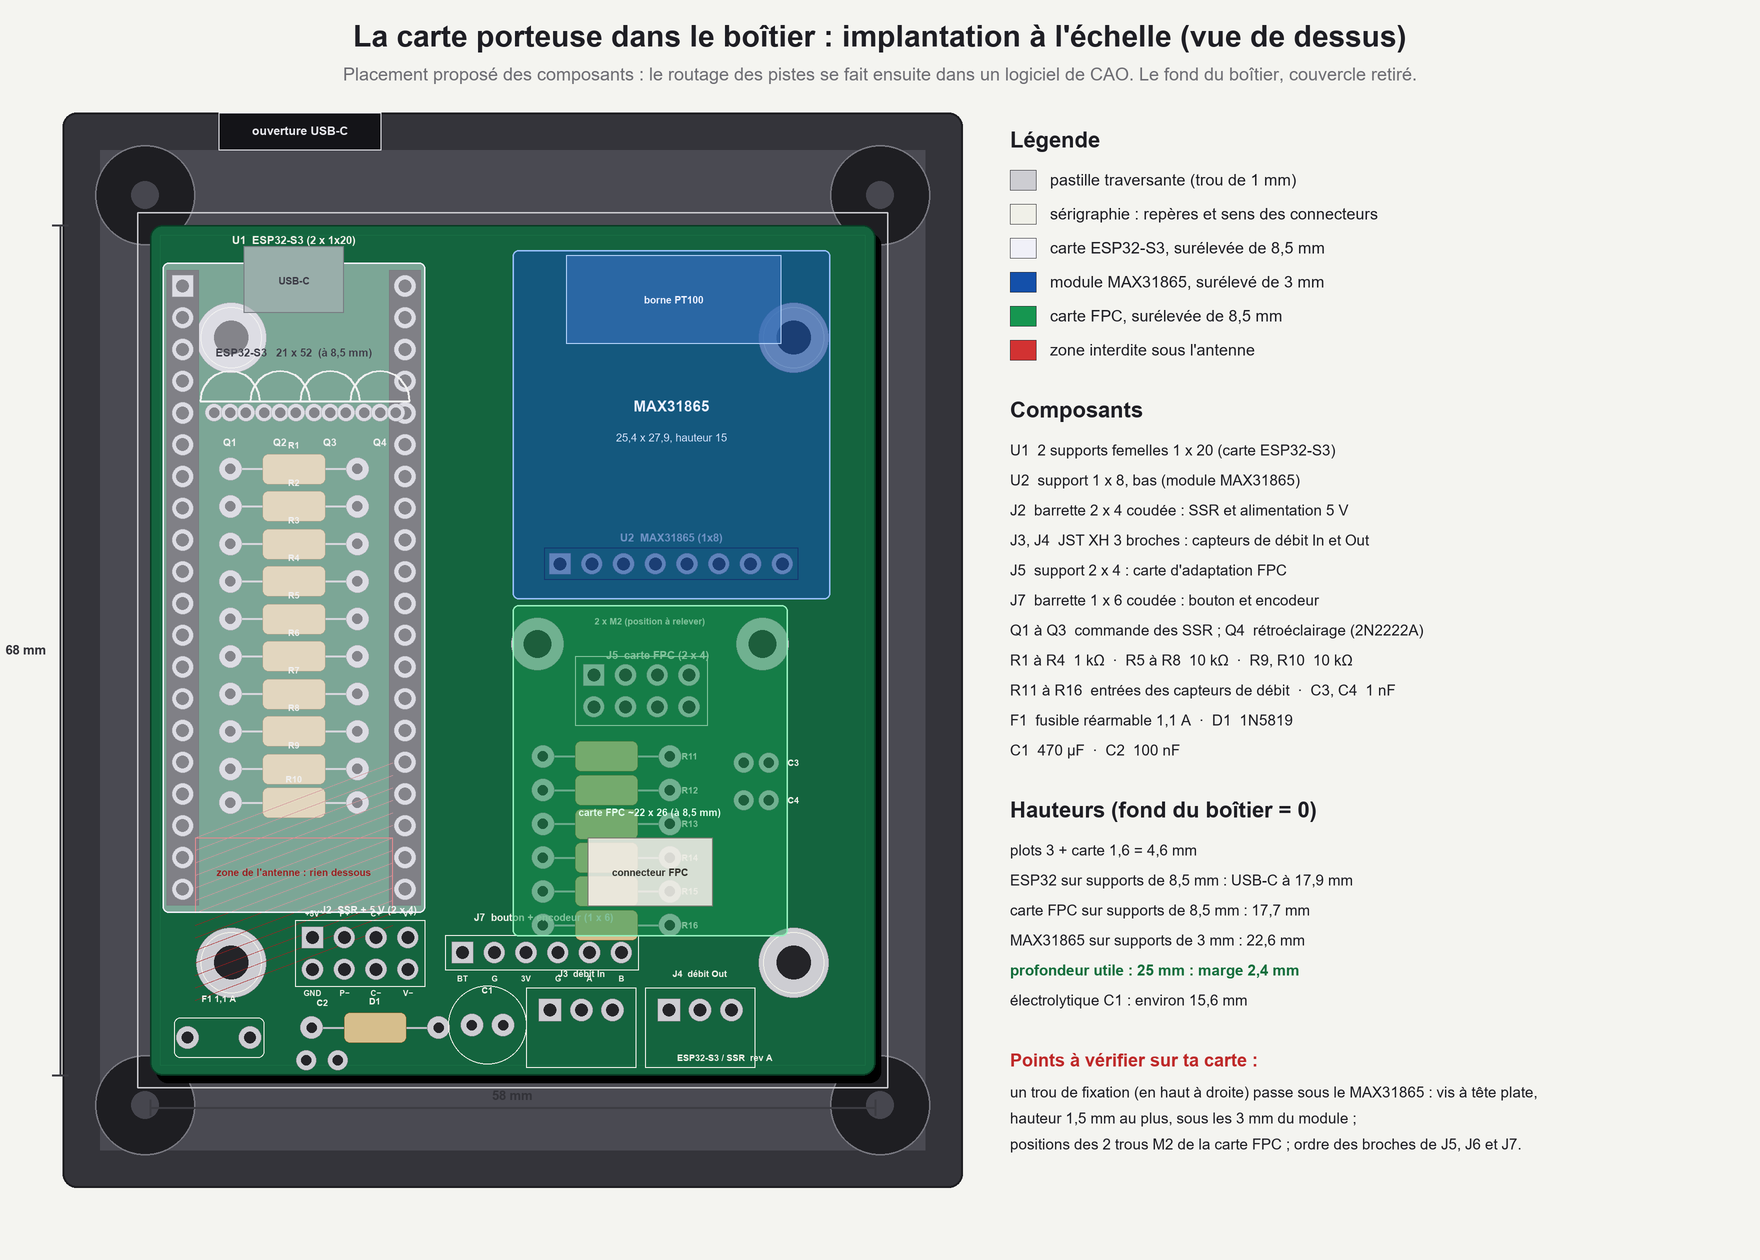
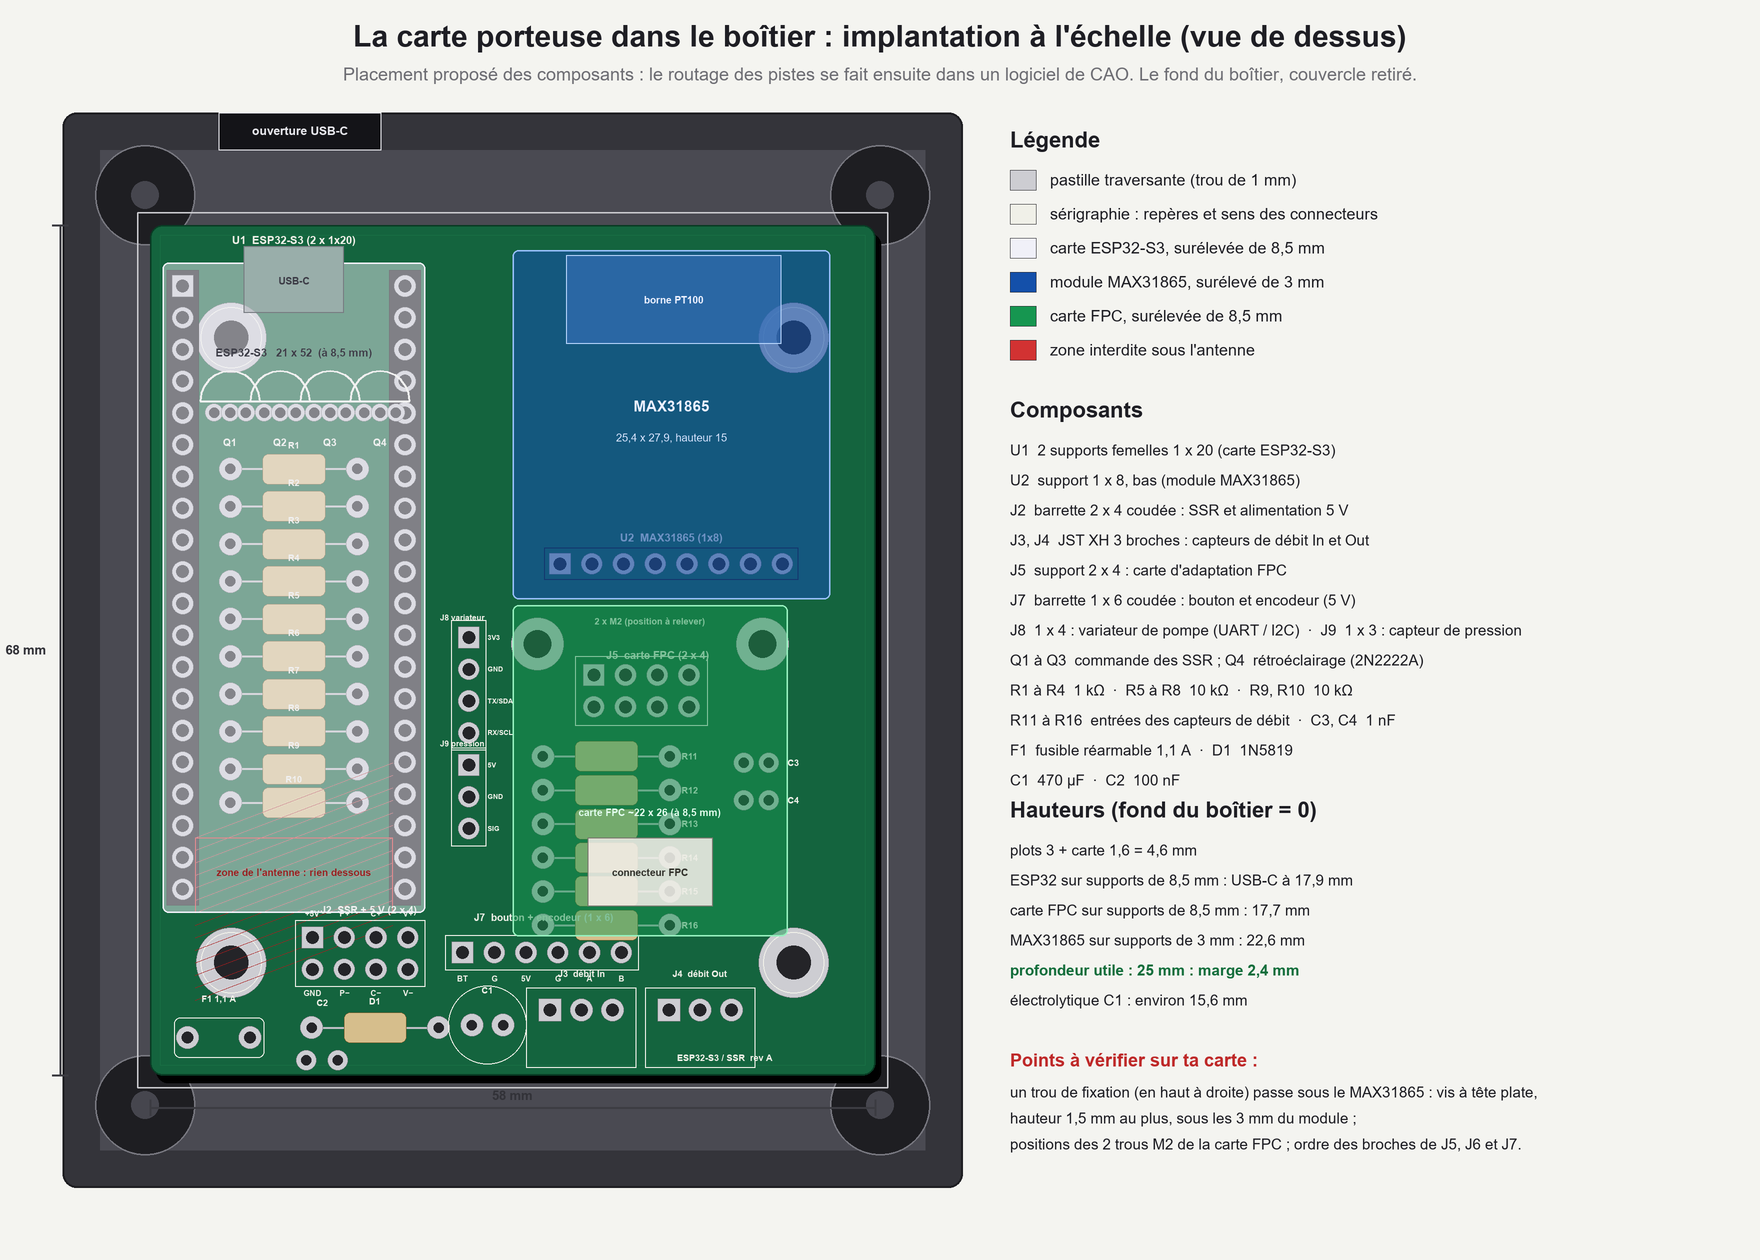
Ajout J8 (variateur de pompe UART/I2C) et J9 (capteur de pression), encodeur en 5 V

Changed region(s): [[0.5625, 0.4952, 0.8438, 0.619], [0.25, 0.4952, 0.2812, 0.681]]

diff --git a/tools/carrier_plan.py b/tools/carrier_plan.py
@@ -162,8 +162,19 @@ for i in range(6):
     tpad(25.0 + i * 2.54, 58.2, square=(i == 0), ring=1.7, drill=1.0)
 rect(d, X(25.0) - 1.4 * K, Y(58.2) - 1.4 * K, X(25.0 + 5 * 2.54) + 1.4 * K, Y(58.2) + 1.4 * K, outline=SILK + (255,), width=2)
 silk(31.5, 55.4, "J7  bouton + encodeur (1 x 6)", 10)
-for i, lab in enumerate(["BT", "G", "3V", "G", "A", "B"]):
+for i, lab in enumerate(["BT", "G", "5V", "G", "A", "B"]):
     text(d, X(25.0 + i * 2.54), Y(58.2) + 2.1 * K, lab, 8, SILK, True)
+# J8: 1 x 4 vertical header, dimmer (UART / I2C) in the corridor between ESP32 and FPC board; J9: 1 x 3, pressure sensor
+for i, lab in enumerate(["3V3", "GND", "TX/SDA", "RX/SCL"]):
+    tpad(25.5, 33.0 + i * 2.54, square=(i == 0), ring=1.7, drill=1.0)
+    text(d, X(27.0), Y(33.0 + i * 2.54), lab, 7, SILK, True, 'lm')
+rect(d, X(25.5) - 1.4 * K, Y(33.0) - 1.4 * K, X(25.5) + 1.4 * K, Y(33.0 + 3 * 2.54) + 1.4 * K, outline=SILK + (255,), width=2)
+silk(25.0, 31.4, "J8 variateur", 8)
+for i, lab in enumerate(["5V", "GND", "SIG"]):
+    tpad(25.5, 43.2 + i * 2.54, square=(i == 0), ring=1.7, drill=1.0)
+    text(d, X(27.0), Y(43.2 + i * 2.54), lab, 7, SILK, True, 'lm')
+rect(d, X(25.5) - 1.4 * K, Y(43.2) - 1.4 * K, X(25.5) + 1.4 * K, Y(43.2 + 2 * 2.54) + 1.4 * K, outline=SILK + (255,), width=2)
+silk(25.0, 41.5, "J9 pression", 8)
 # F1 polyfuse (radial, pitch 5), D1 1N5819 (axial 10.16), C1 470 uF (radial 5 mm dia, pitch 2.5), C2 100 nF
 tpad(3.0, 65.0, ring=1.8, drill=0.9); tpad(8.0, 65.0, ring=1.8, drill=0.9)
 rrect(d, X(1.9), Y(63.4), X(9.1), Y(66.6), 6, outline=SILK + (255,), width=2); silk(5.5, 61.9, "F1 1,1 A", 9)
@@ -239,7 +250,8 @@ comp = [
     "J2  barrette 2 x 4 coudée : SSR et alimentation 5 V",
     "J3, J4  JST XH 3 broches : capteurs de débit In et Out",
     "J5  support 2 x 4 : carte d'adaptation FPC",
-    "J7  barrette 1 x 6 coudée : bouton et encodeur",
+    "J7  barrette 1 x 6 coudée : bouton et encodeur (5 V)",
+    "J8  1 x 4 : variateur de pompe (UART / I2C)  ·  J9  1 x 3 : capteur de pression",
     "Q1 à Q3  commande des SSR ; Q4  rétroéclairage (2N2222A)",
     "R1 à R4  1 kΩ  ·  R5 à R8  10 kΩ  ·  R9, R10  10 kΩ",
     "R11 à R16  entrées des capteurs de débit  ·  C3, C4  1 nF",

diff --git a/docs/carrier_spec.md b/docs/carrier_spec.md
@@ -13,7 +13,9 @@
 |---|---|---|
 | J1 | (fusionné dans J2, broches A1 / A2) | alimentation 5 V |
 | J2 | barrette mâle 2 x 4 coudée, boîtiers Dupont femelles | alimentation 5 V + 3 SSR |
-| J7 | barrette mâle 1 x 6 coudée | bouton + encodeur |
+| J7 | barrette mâle 1 x 6 coudée | bouton + encodeur (alimenté en 5 V) |
+| J8 | barrette 1 x 4 | variateur de pompe RobotDyn 4 A UART / I2C (alimenté en 3,3 V) |
+| J9 | barrette 1 x 3 | capteur de pression 0,5 à 4,5 V, 0 à 12 bar (alimenté en 5 V) |
 | J3, J4 | JST XH 3 broches (pas réel 2,5 mm) | capteurs de débit In et Out |
 | J5 | support femelle 2 x 4 | ta carte d'adaptation FPC 8 broches (nappe vers l'écran déporté) |
 | J6 | support femelle 1 x 8 (bas, 3 mm) | module MAX31865 |
@@ -30,9 +32,26 @@ Quatre boîtiers Dupont 2P (un par colonne). Attention : un boîtier 2 x 4 n'est
 ### J7 (1 x 6)
 | 1 | 2 | 3 | 4 | 5 | 6 |
 |---|---|---|---|---|---|
-| bouton (GPIO 6) | GND | 3V3 | GND | enc. A (GPIO 4) | enc. B (GPIO 5) |
+| bouton (GPIO 6) | GND | **+5 V** | GND | enc. A (GPIO 4) | enc. B (GPIO 5) |
 
-Boîtiers : 2P (bouton) et 4P (encodeur : 3V3, GND, A, B). L'ordre doit suivre **ton** module d'encodeur (à vérifier).
+Boîtiers : 2P (bouton) et 4P (encodeur : +5 V, GND, A, B). L'ordre doit suivre **ton** module d'encodeur (à vérifier).
+
+### Protection des entrées 5 V (encodeur)
+L'ESP32-S3 n'accepte que 3,3 V. Le module encodeur étant alimenté en 5 V, ses sorties (A, B, bouton) peuvent monter à 5 V si le module a des rappels vers 5 V. Chaque signal passe donc par un diviseur : 4,7 kΩ en série vers le GPIO, puis 10 kΩ du GPIO vers GND (5 V devient 3,4 V). Les rappels de 10 kΩ vers 3,3 V (R9, R10) sont alors à supprimer. **À vérifier :** si ton module est un encodeur nu sans résistances de rappel, il faut des 10 kΩ vers 5 V (à prévoir en option sur la carte).
+
+### J8 (variateur de pompe, 1 x 4, ordre du module)
+| 1 | 2 | 3 | 4 |
+|---|---|---|---|
+| VCC (3,3 V) | GND | TX/SDA | RX/SCL |
+
+Module RobotDyn « 4 A Dimmer, interface DimmerLink UART / I2C » (53 x 16 mm) : pas de broche de passage par zéro ni de PWM, tout passe par le bus. En UART, le TX de l'ESP32 va vers RX/SCL du module et inversement (GPIO 47 = TX, GPIO 48 = RX, **provisoire**) ; en I2C, GPIO 47 = SDA, GPIO 48 = SCL (les mêmes broches servent aux deux modes, les rappels I2C seraient à ajouter). Le module reste hors de la carte, côté secteur : seul le câble Dupont de commande y revient, la partie 230 V garde sa propre isolation et sa distance. Alimentation en 3,3 V pour que la logique soit au même niveau que l'ESP32.
+
+### J9 (capteur de pression, 1 x 3)
+| 1 | 2 | 3 |
+|---|---|---|
+| +5 V | GND | signal |
+
+Capteur G1/4, 0 à 12 bar, sortie 0,5 à 4,5 V. Le signal passe par un diviseur 10 kΩ (série) / 20 kΩ (vers GND) qui ramène 4,5 V à 3,0 V, plus 100 nF sur le GPIO 1 (ADC1, atténuation 11 dB). Pression en bar = (tension du capteur − 0,5) x 3. Lecture à moyenner (l'ADC de l'ESP32 est bruité et peu linéaire aux extrémités).
 
 ### J3 / J4 (JST XH 3 broches)
 1 = +5 V, 2 = signal, 3 = GND. L'ordre exact vient du câble du capteur (souvent rouge / jaune / noir).
@@ -44,7 +63,7 @@ Affectation **provisoire** (GC9A01 8 broches typique) : 1 GND, 2 3V3, 3 SCL (GPI
 VIN (3,3 V), 3Vo (non utilisé), GND, CLK (GPIO 12), SDO (GPIO 13), SDI (GPIO 11), CS (GPIO 7), RDY (non utilisé). Ordre à vérifier sur ton module.
 
 ## Broches de l'ESP32-S3
-5V, 3V3, GND ; GPIO 17 (SSR pompe), 18 (SSR chaudière), 21 (SSR vanne) ; 15 (débit In), 16 (débit Out) ; 4 / 5 (encodeur) ; 6 (bouton) ; 11 / 12 / 13 (SPI MOSI / SCK / MISO) ; 10 (écran CS) ; 9 / 8 (écran DC / RST) ; 14 (rétroéclairage) ; 7 (MAX31865 CS) ; 38 (réserve). Évitées : 0, 3, 45, 46, 19, 20, 35 à 37.
+5V, 3V3, GND ; GPIO 17 (SSR pompe), 18 (SSR chaudière), 21 (SSR vanne) ; 15 (débit In), 16 (débit Out) ; 4 / 5 (encodeur) ; 6 (bouton) ; 11 / 12 / 13 (SPI MOSI / SCK / MISO) ; 10 (écran CS) ; 9 / 8 (écran DC / RST) ; 14 (rétroéclairage) ; 7 (MAX31865 CS) ; 47 / 48 (variateur TX / RX ou SDA / SCL) ; 1 (pression, ADC) ; 38 (réserve). Évitées : 0, 3, 45, 46, 19, 20, 35 à 37.
 
 ## Circuits
 - **Alimentation :** J2 A1 (+5 V) → fusible réarmable 1,1 A → diode 1N5819 (contre l'inversion) → rail +5 V (470 µF + 100 nF) → broche 5V de l'ESP32. Le 3,3 V vient de la carte ESP32.
@@ -63,7 +82,7 @@ VIN (3,3 V), 3Vo (non utilisé), GND, CLK (GPIO 12), SDO (GPIO 13), SDI (GPIO 11
 | 1 | barrette mâle 2 x 4 coudée + 1 x 6 coudée | 0,5 € |
 | 2 | embases JST XH 3 broches | 0,5 € |
 | 4 | transistors 2N2222A (3 SSR + rétroéclairage) | 0,6 € |
-| 12 | résistances axiales : 4 x 1 kΩ, 5 x 10 kΩ, 2 x 4,7 kΩ (+ 2 de rappel encodeur) | 0,6 € |
+| 20 | résistances axiales : 4 x 1 kΩ, 8 x 10 kΩ, 5 x 4,7 kΩ, 1 x 20 kΩ… (à recompter au routage) | 1 € |
 | 1 | fusible réarmable 1,1 A (radial) | 0,5 € |
 | 1 | diode 1N5819 | 0,2 € |
 | 1 | condensateur 470 µF 10 V radial ; 3 x 100 nF ; 2 x 1 nF | 1 € |
@@ -78,3 +97,5 @@ VIN (3,3 V), 3Vo (non utilisé), GND, CLK (GPIO 12), SDO (GPIO 13), SDI (GPIO 11
 4. Les dimensions de ta carte d'adaptation FPC (environ 22 x 28 mm estimés) et l'écartement de ses trous de fixation.
 5. Le type de sortie des capteurs de débit (5 V ou collecteur ouvert) : le circuit prévu convient aux deux.
 6. Module MAX31865 (Adafruit, relevé sur le plan du fabricant) : 25,4 x 27,9 mm, trous de fixation à 0,9" d'entraxe et 0,1" du bord côté bornier, connecteur 1 x 8 au pas de 0,1" sur le petit côté : VIN, 3Vo, GND, CLK, SDO, SDI, CS, RDY.
+7. Variateur de pompe : le protocole DimmerLink (commandes, adresse I2C, vitesse UART) est à relever sur la fiche du module. Un variateur de phase sur un moteur de pompe vibratoire (ou à aimant) est à valider : tout moteur ne supporte pas bien la coupure de phase.
+8. Capteur de pression : confirmer 3 fils (+5 V, GND, signal) et le raccord G1/4 côté circuit hydraulique.
